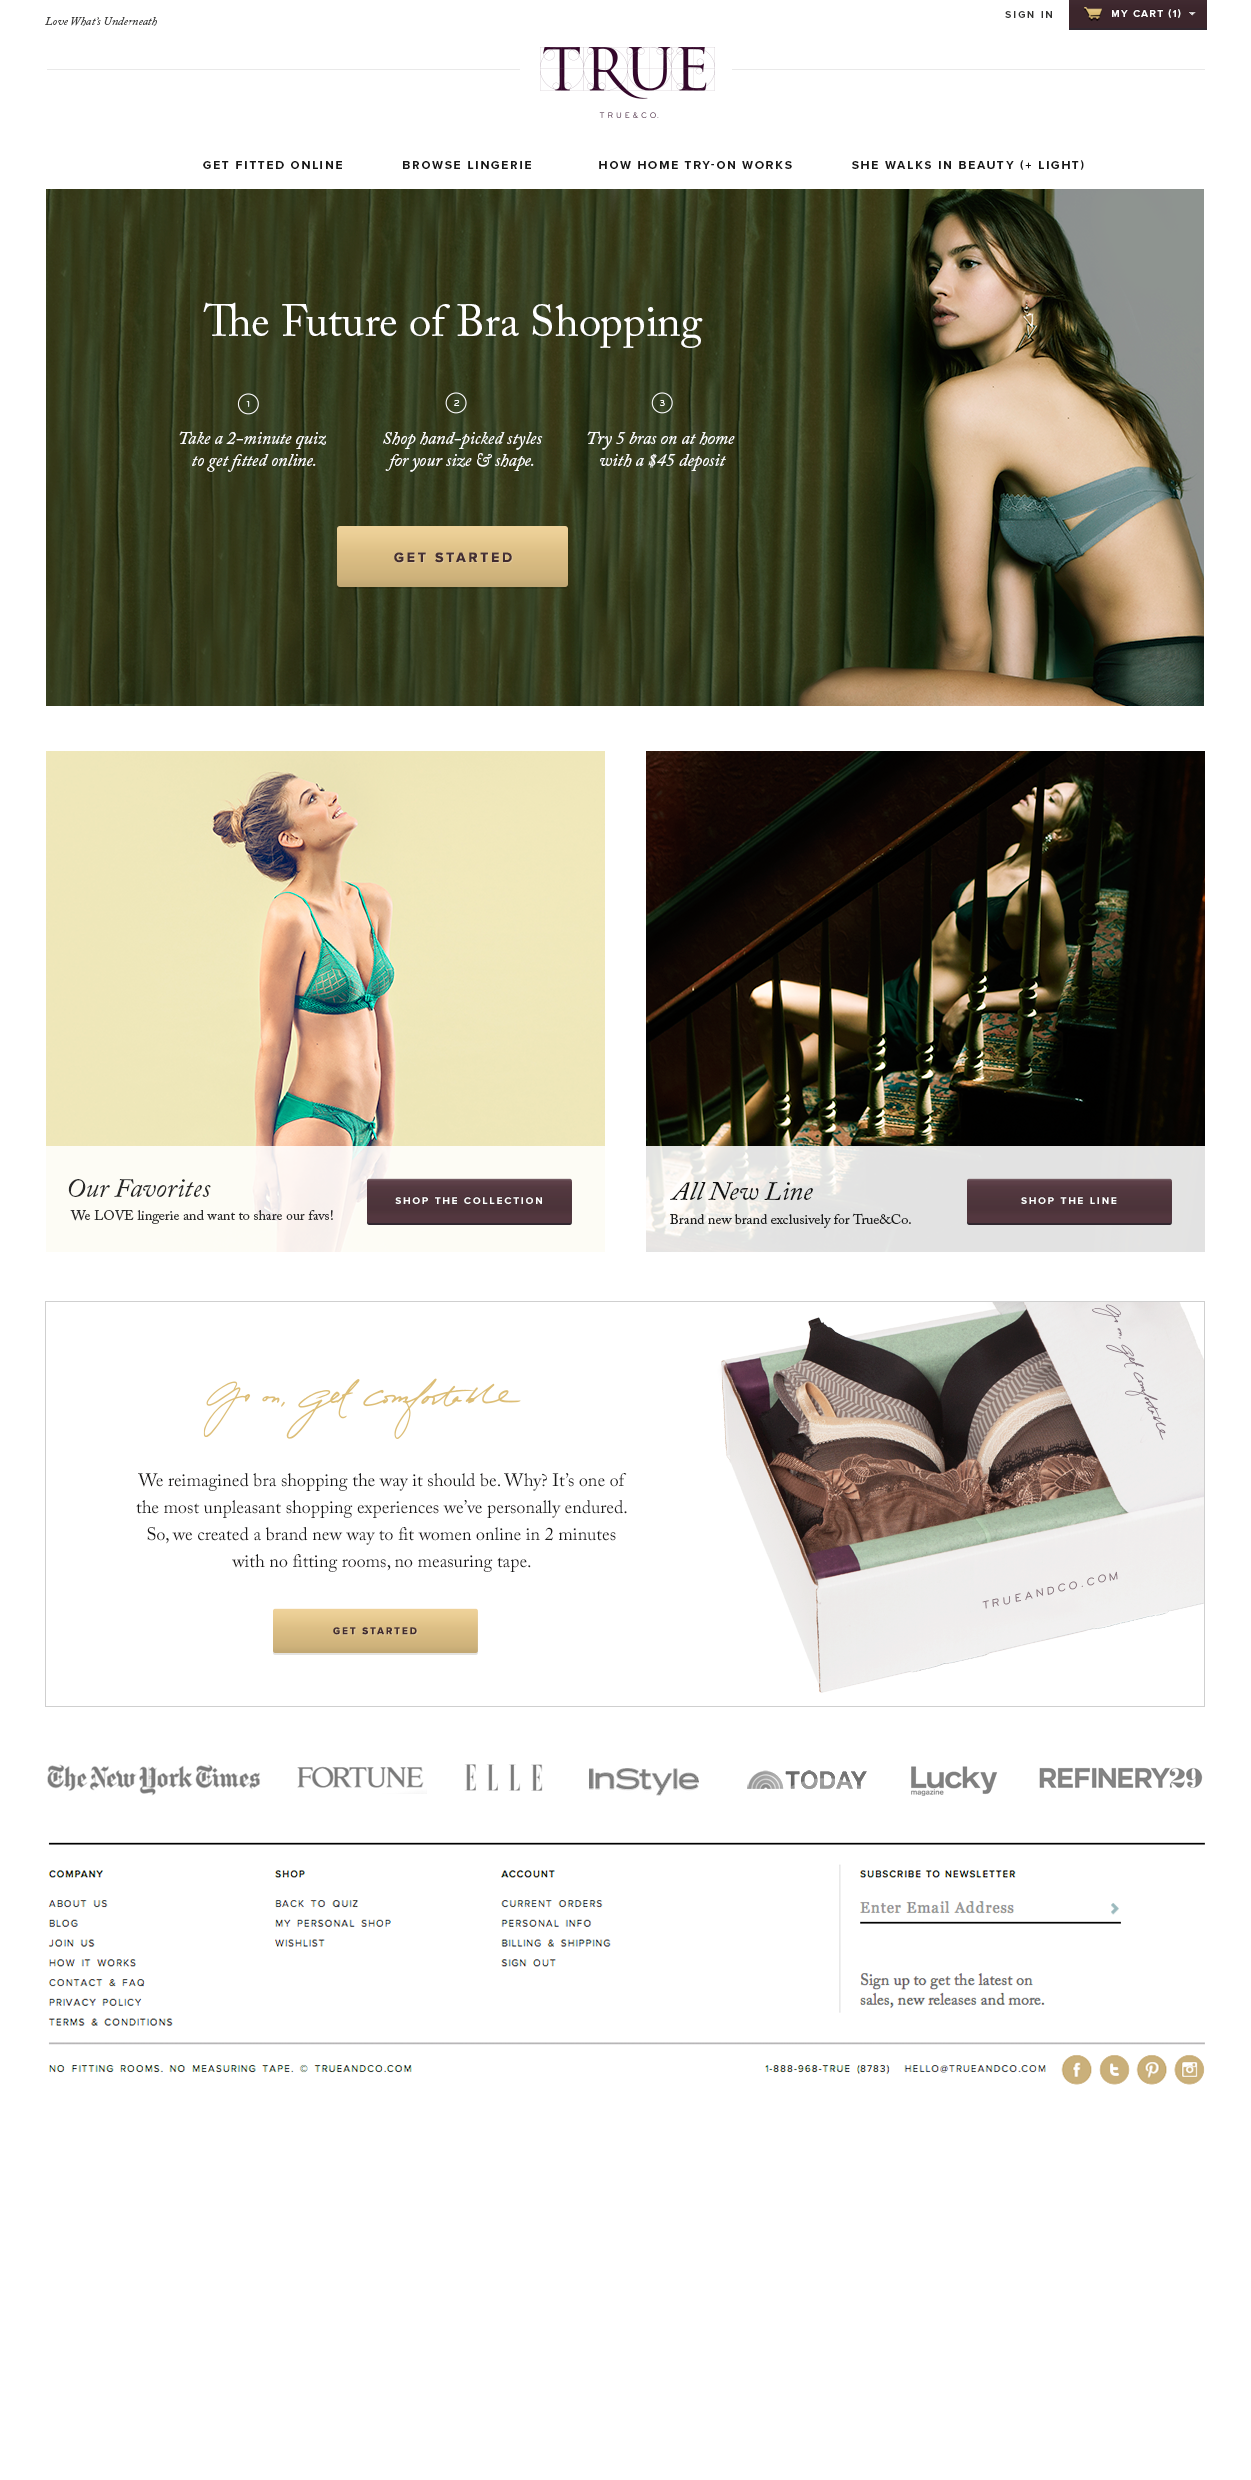
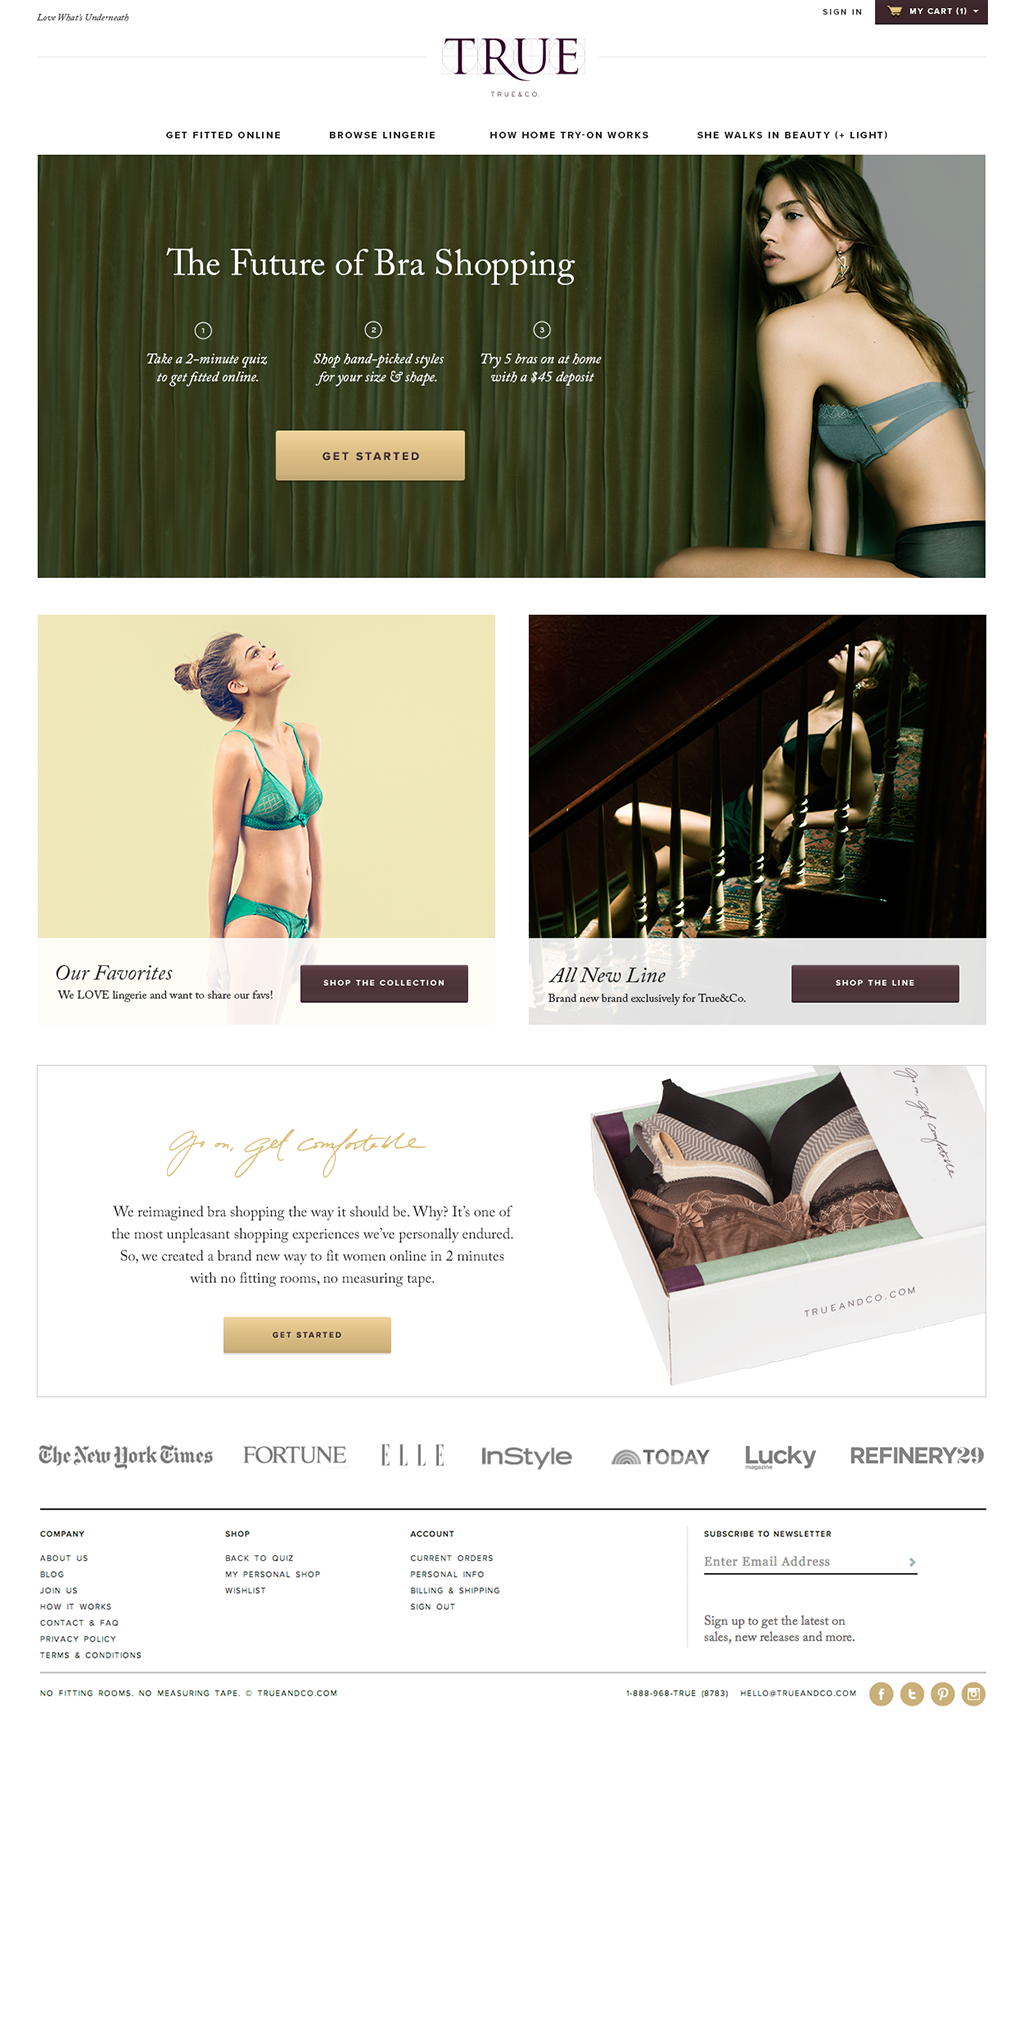
update large image

Changed region(s): [[0.3438, 0.1552, 0.375, 0.1862], [0.1875, 0.1552, 0.2188, 0.1862]]

diff --git a/9_Home-Exploration-newcolors-full.html b/9_Home-Exploration-newcolors-full.html
@@ -26,6 +26,6 @@
   </head>
 
   <body>
-    <img src="images/9_Home-Exploration-newcolors-full.png" width="1251" height="2480" alt="9 Home Exploration Newcolors Full">
+    <img src="images/9_Home-Exploration-newcolors-full.png" width="1024" height="2030" alt="9 Home Exploration Newcolors Full">
   </body>
 </html>
